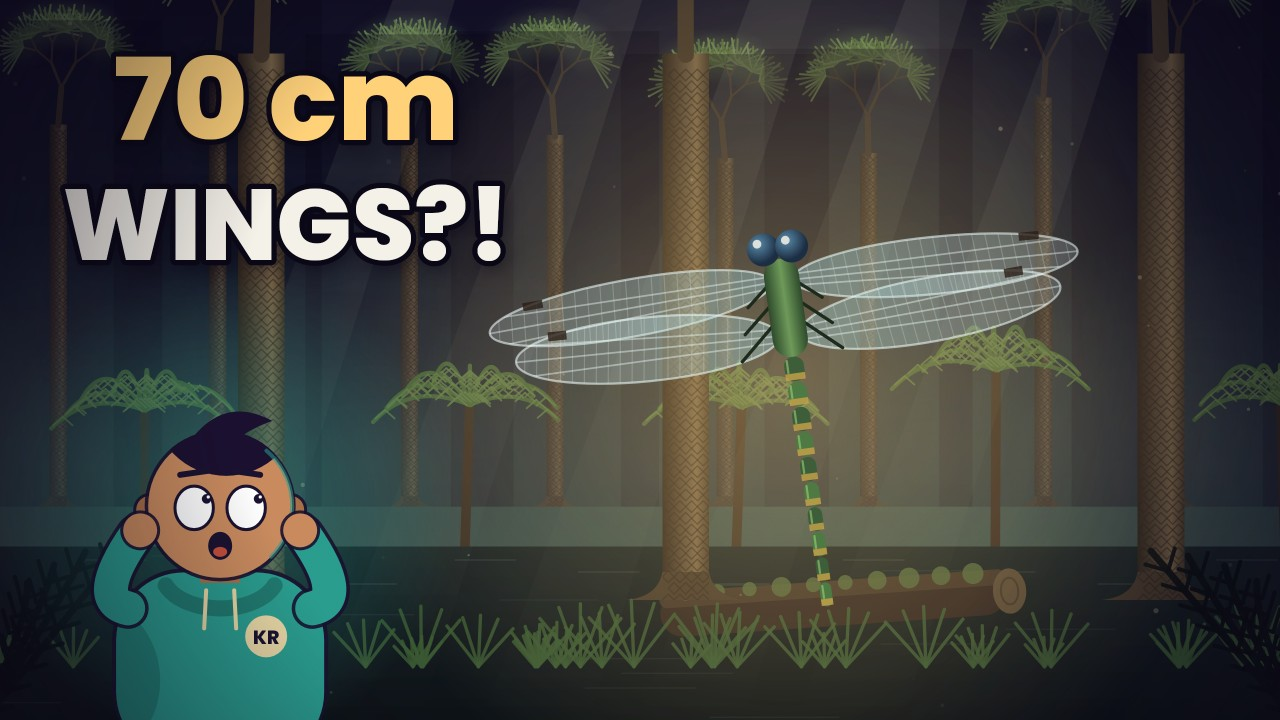
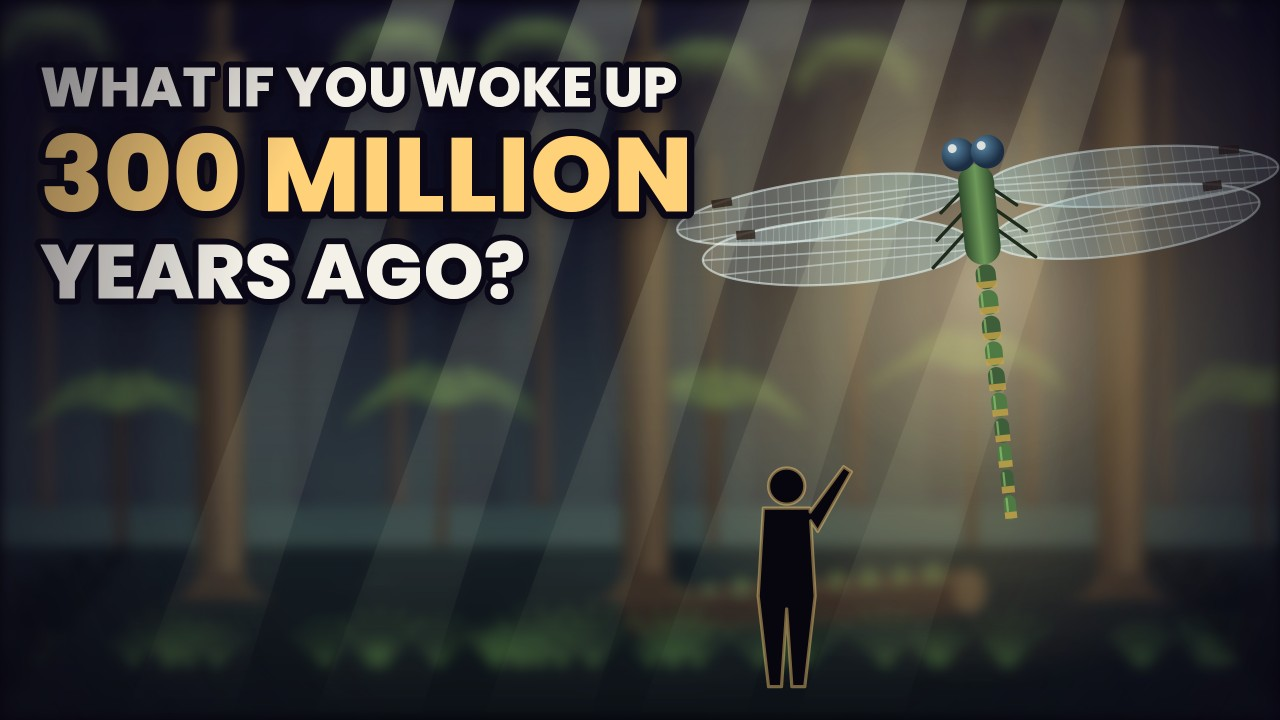
Thumbnails v2: no KR, title as text
Claude-Session: https://claude.ai/code/session_01WCp4uQYTUmYEbUCUwohxpo

diff --git a/runs/woke-up-300-million-years-ago/video/thumbs2.py b/runs/woke-up-300-million-years-ago/video/thumbs2.py
@@ -1,0 +1,110 @@
+"""Thumbnails v2 (Krishna's rules: no KR; text = the video title). Drawn at 2560x1440, saved 1280x720."""
+import os, math, skia
+from art import *  # noqa
+from art import W, H
+OUT = os.path.join(os.path.dirname(os.path.abspath(__file__)), "thumbs")
+os.makedirs(OUT, exist_ok=True)
+T0 = 1.3
+TITLE = ("WHAT IF YOU WOKE UP", "300 MILLION", "YEARS AGO?")
+
+
+def ot(c, s, x, y, size, color, align="left", stroke=18):
+    f = font("extrabold", size)
+    sh = paint("space", 0.75); sh.setMaskFilter(skia.MaskFilter.MakeBlur(skia.kNormal_BlurStyle, 16))
+    text(c, s, x + 6, y + 12, f, sh, align)
+    text(c, s, x, y, f, paint("space", 1, stroke=stroke), align)
+    text(c, s, x, y, f, paint(color), align)
+
+
+def title_block(c, x=60, y=160, k=0.9):
+    ot(c, TITLE[0], x, y, 92 * k, "cream")
+    ot(c, TITLE[1], x, y + 175 * k, 175 * k, "gold", stroke=22)
+    ot(c, TITLE[2], x, y + 320 * k, 128 * k, "cream")
+
+
+def blurred(c, draw, sigma=9):
+    S = skia.Surface(W, H); draw(S.getCanvas())
+    p = skia.Paint(); p.setImageFilter(skia.ImageFilters.Blur(sigma, sigma))
+    c.drawImage(S.makeImageSnapshot(), 0, 0, skia.SamplingOptions(), p)
+
+
+def person(c, x, base, h, pose="stand", rim="gold", a=1.0):
+    """faceless silhouette with rim light. h = height in px."""
+    s = h / 170.0
+    c.save(); c.translate(x, base); c.scale(s, s)
+    body = skia.Path()
+    if pose == "stand":
+        body.addCircle(0, -155, 14)
+        b = skia.Path(); b.moveTo(-18, -138); b.lineTo(18, -138); b.lineTo(22, -70); b.lineTo(14, 0); b.lineTo(4, 0)
+        b.lineTo(0, -60); b.lineTo(-4, 0); b.lineTo(-14, 0); b.lineTo(-22, -70); b.close()
+        body = skia.Op(body, b, skia.PathOp.kUnion_PathOp)
+        arm = skia.Path(); arm.moveTo(16, -132); arm.lineTo(44, -170); arm.lineTo(50, -166); arm.lineTo(24, -120); arm.close()
+        body = skia.Op(body, arm, skia.PathOp.kUnion_PathOp)
+    c.drawPath(body, paint("#07050E", a))
+    rp = paint(rim, 0.45 * a, stroke=2.5); c.drawPath(body, rp)
+    c.restore()
+
+
+def thumb_dragonfly(c):
+    """A 70 cm griffinfly hovering right above you, swamp blurred behind."""
+    blurred(c, lambda cc: swamp_scene(cc, T0, cam_x=60), 10)
+    c.drawRect(skia.Rect(0, 0, W, H), paint("space", 0.35))
+    god_rays(c, T0, 2.0)
+    glow(c, 1470, 430, 600, "gold", 0.45)
+    glow(c, 1470, 430, 280, "cream", 0.25)
+    dragonfly(c, 1470, 330, 1.68, 0.37, ang=-6)
+    person(c, 1180, 1030, 330, "stand", "gold")          # a person, for scale (faceless)
+    title_block(c)
+    vignette(c, W, H, 0.6)
+
+
+def thumb_bulb(c):
+    """Today's light bulb glowing with the 300-million-year-old forest inside."""
+    lin(c, 0, 0, 0, H, ["#0C0818", "#1E1230"])
+    for i in range(14):
+        a = math.radians(-90 + (i - 7) * 13)
+        p = skia.Path(); p.moveTo(1520, 450); p.lineTo(1520 + math.cos(a - 0.04) * 1400, 450 + math.sin(a - 0.04) * 1400)
+        p.lineTo(1520 + math.cos(a + 0.04) * 1400, 450 + math.sin(a + 0.04) * 1400); p.close()
+        c.drawPath(p, paint("gold", 0.05))
+    c.drawLine(1520, 0, 1520, 120, paint("#3A3048", stroke=10))
+    import thumbs as T1
+    T1.bulb_forest(c, 1520, 450, 330)
+    title_block(c)
+    vignette(c, W, H, 0.55)
+
+
+def thumb_scale(c):
+    """You, tiny, in a forest of 30 m trees with a giant dragonfly overhead."""
+    swamp_sky(c, T0)
+    god_rays(c, T0, 2.2)
+    for i in range(7):
+        lycopsid(c, 700 + i * 200 + rng(i, 3) * 60, 900, 600 + 200 * rng(i, 4), 34, T0, i, dark=0.3)
+    mist(c, 820, T0, 0.25)
+    water(c, 900, T0)
+    lycopsid(c, 1180, 1000, 860, 110, T0, 9)
+    lycopsid(c, 1760, 1000, 900, 120, T0, 10)
+    glow(c, 1500, 330, 380, "gold", 0.35)
+    dragonfly(c, 1500, 250, 1.25, 0.4, ang=8)
+    person(c, 1450, 1000, 170, "stand", "gold")
+    millipede(c, 1180, 975, 0.55, T0, 9)
+    ferns_ground(c, 1040, T0, 1.0, seed=4)
+    spores(c, T0, 0.8)
+    c.drawRect(skia.Rect(0, 0, 900, H), paint("space", 0.25))
+    title_block(c)
+    vignette(c, W, H, 0.55)
+
+
+def render(fn, name):
+    S = skia.Surface(2560, 1440)
+    c = S.getCanvas(); c.scale(2560 / 1920, 2560 / 1920)
+    fn(c); grain(c, W, H, T0, 0.03)
+    small = skia.Surface(1280, 720)
+    small.getCanvas().drawImageRect(S.makeImageSnapshot(), skia.Rect(0, 0, 1280, 720), skia.SamplingOptions(skia.FilterMode.kLinear, skia.MipmapMode.kLinear))
+    p = os.path.join(OUT, name); small.makeImageSnapshot().save(p, skia.kJPEG, 90); return p
+
+
+if __name__ == "__main__":
+    import thumbs as T1
+    ps = [render(thumb_dragonfly, "THUMB_A.jpg"), render(thumb_scale, "THUMB_B.jpg"), render(thumb_bulb, "THUMB_C.jpg")]
+    T1.sheet(ps)
+    for p in ps: print(p, os.path.getsize(p))
